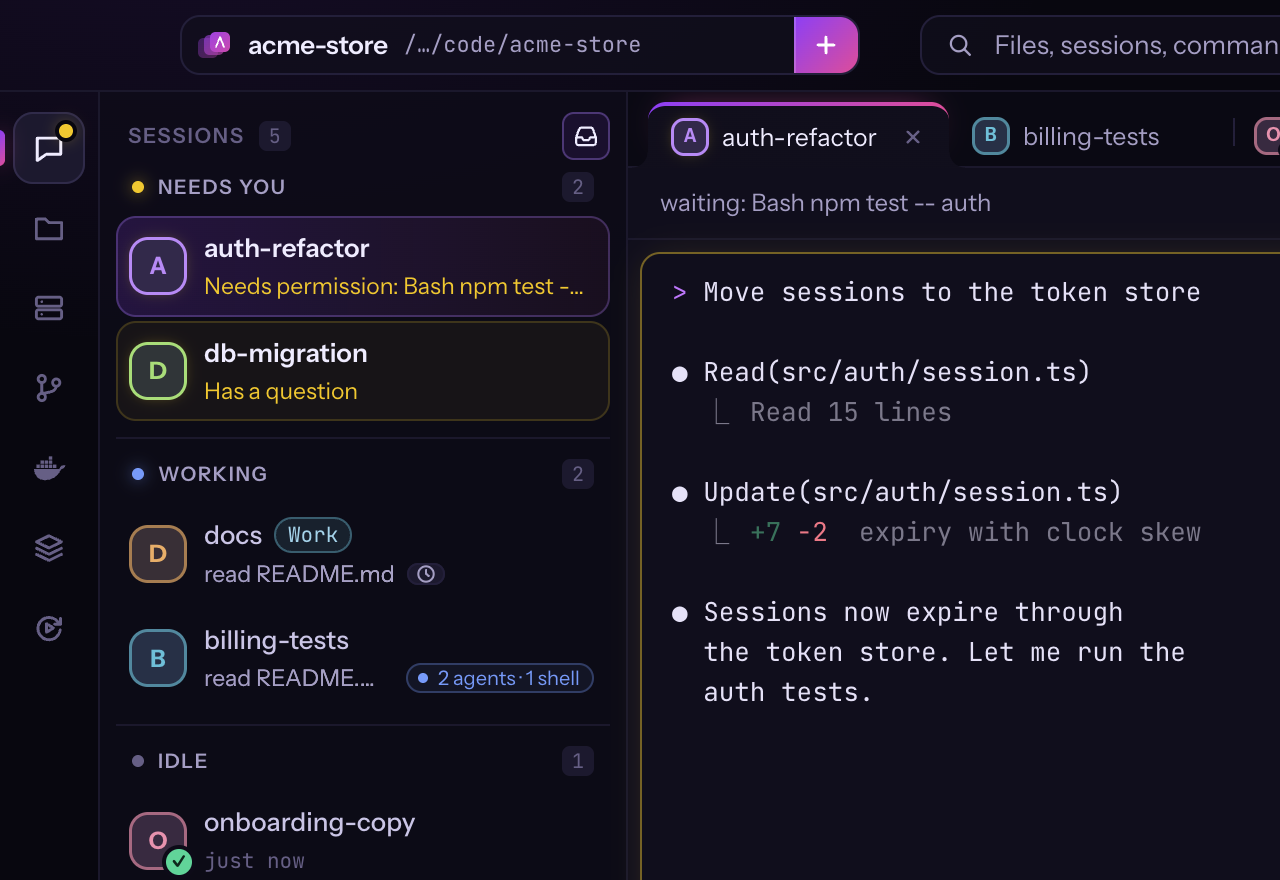
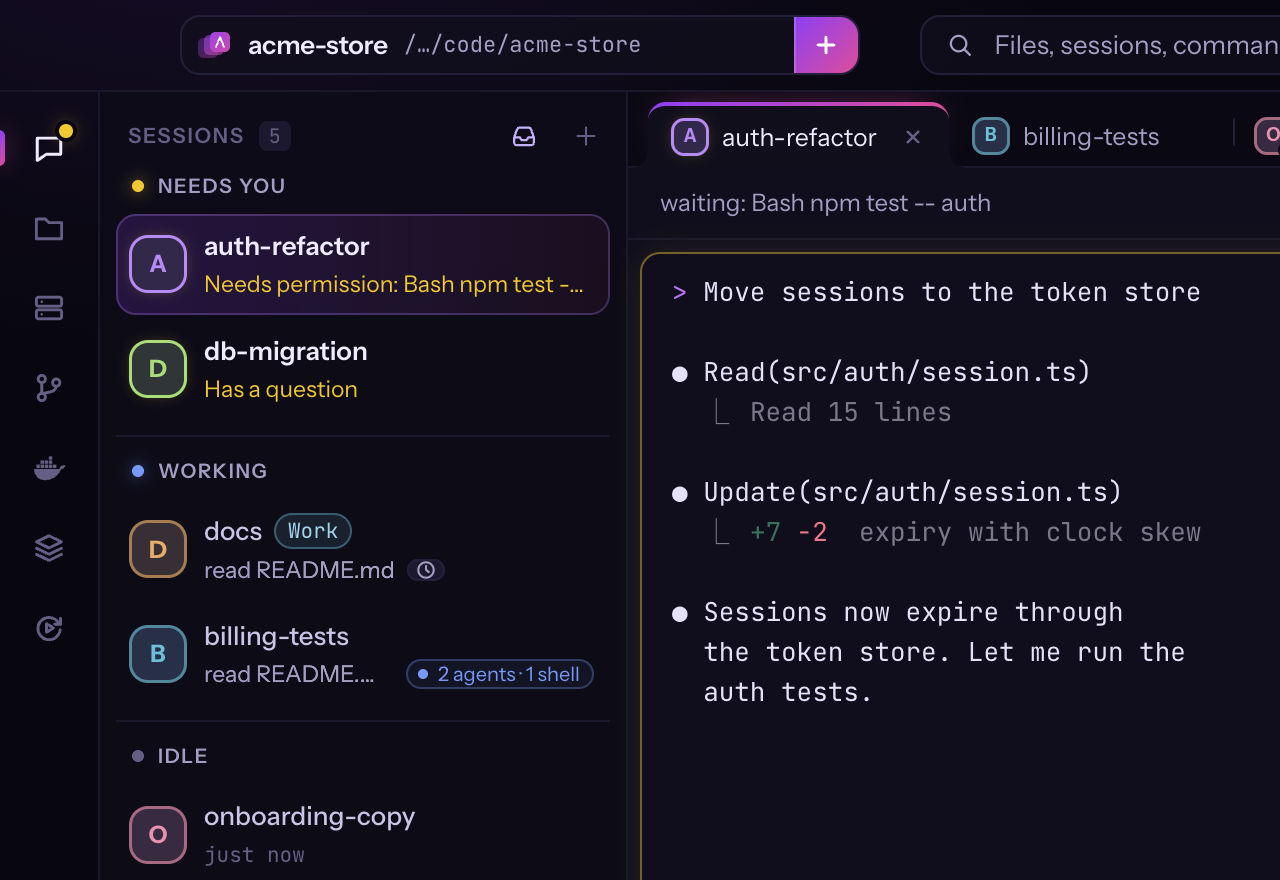
README: workspaces fold under their name and turn on in every project at once; refreshed screenshots (quiet sidebar and session bar, Changes' Filters)

diff --git a/README.md b/README.md
@@ -77,9 +77,10 @@ Working on several things in one project? Turn on workspaces for it: each one ke
 and split, and you switch between them in a keystroke.
 
 - New Workspace… (⌥⌘T); switch with ⌥⌘1…9 or from the Go menu
-- The others wait as cards with their sessions' states; drop a tab or a row on one to move it
+- The others fold under their name, a dot saying when one needs you; open one to peek at its sessions, drop a tab or a
+  row on it to move it
 - Its own folder for new sessions and terminals; Changes shows this workspace or all
-- Off by default, turned on per project
+- Off by default: turn them on per project, or in every project at once
 
 ### See what runs in the background
 
